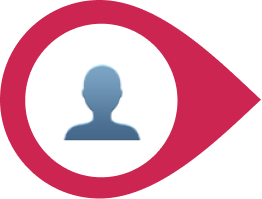
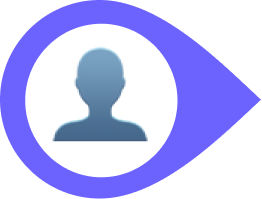
add founders to match opponents

diff --git a/app/assets/stylesheets/thermometre.css.scss b/app/assets/stylesheets/thermometre.css.scss
@@ -44,6 +44,10 @@
   width: 200px;
   bottom: 0;
   left: -180px;
+  transition-property: bottom;
+  transition-duration: 2s;
+  transition-timing-function: ease-in-out;
+  transition-delay: 2s;
 }
 
 .thermometre-parent .badge-right {

diff --git a/app/models/match.rb b/app/models/match.rb
@@ -1,3 +1,38 @@
 class Match < ApplicationRecord
 
+  scope :user_matches, -> (int) {where("user_id IS NULL OR user_id = ?", int)}
+
+  def get_match_data(user)
+    raw_user_data = self.get_user_data(user)
+    opponent_data = self.get_opponent_data
+    user_total = raw_user_data.map { |c,v| v }.inject(0){|sum,x| sum.to_i + x.to_i }
+    opponent_total = opponent_data.inject(0){|sum,x| sum.to_i + x.to_i }
+    chart_data = {
+      labels: raw_user_data.map { |c,v| c.emoji },
+      datasets: [
+        { label: 'Toi', data: raw_user_data.map { |c,v| v }, borderColor: "#6C63FF" },
+        { label: self.name, data: opponent_data, borderColor: "#FF8550" }
+      ]
+    }
+    return chart_data, raw_user_data, opponent_data, user_total, opponent_total
+  end
+
+  def get_user_data(user)
+    categories = Category.all.parent_categories
+    transactions = user.transactions.recent.carbone_contribution
+    raw_user_data = categories.sort_by {|c| c.id}.map {|c| [c, transactions.parent_category_id(c.id).sum(:carbone)]}
+    raw_user_data
+  end
+
+  def get_opponent_data
+    if self.data != []
+      opponent_data = self.data
+    else
+      opponent = User.find(self.opponent_id)
+      raw_opponent_data = self.get_user_data(opponent)
+      opponent_data = raw_opponent_data.map { |c,v| v }
+    end
+    opponent_data
+  end
+
 end

diff --git a/app/controllers/matches_controller.rb b/app/controllers/matches_controller.rb
@@ -20,13 +20,8 @@ class MatchesController < ApplicationController
       @carbone_total = @carbone_total + v
     end
 
-    @data = {
-      labels: ["🚘", "🏠", "💈", "🛍", "🍕"],
-      datasets: [
-        { label: 'Toi', data: @carbone_by_parent_category.map { |c,v| v }, borderColor: "#6C63FF" },
-        { label: @opponent.name, data: @opponent.data, borderColor: "#FF8550" }
-      ]
-    }
+    @match_data = @opponent.get_match_data(current_user)
+
     @options = {
       legend: {
         display: false
@@ -34,8 +29,17 @@ class MatchesController < ApplicationController
       scale: {
         pointLabels: {
           fontSize: 28
+        },
+        gridLines: {
+          display: true,
+          color: 'rgba(0, 0, 0, 0.05)',
+          tickMarkLength: 10
+        },
+        ticks: {
+          maxTicksLimit: 5
         }
       }
+
     }
 
   end

diff --git a/db/schema.rb b/db/schema.rb
@@ -10,7 +10,7 @@
 #
 # It's strongly recommended that you check this file into your version control system.
 
-ActiveRecord::Schema.define(version: 2019_10_28_170824) do
+ActiveRecord::Schema.define(version: 2019_10_29_102856) do
 
   # These are extensions that must be enabled in order to support this database
   enable_extension "plpgsql"
@@ -61,6 +61,9 @@ ActiveRecord::Schema.define(version: 2019_10_28_170824) do
     t.text "data", default: [], array: true
     t.datetime "created_at", null: false
     t.datetime "updated_at", null: false
+    t.integer "user_id"
+    t.integer "opponent_id"
+    t.string "badge"
   end
 
   create_table "preferences", force: :cascade do |t|

diff --git a/db/migrate/20191029102856_add_user_id_to_matches.rb b/db/migrate/20191029102856_add_user_id_to_matches.rb
@@ -1,0 +1,7 @@
+class AddUserIdToMatches < ActiveRecord::Migration[5.2]
+  def change
+    add_column :matches, :user_id, :integer
+    add_column :matches, :opponent_id, :integer
+    add_column :matches, :badge, :string
+  end
+end
